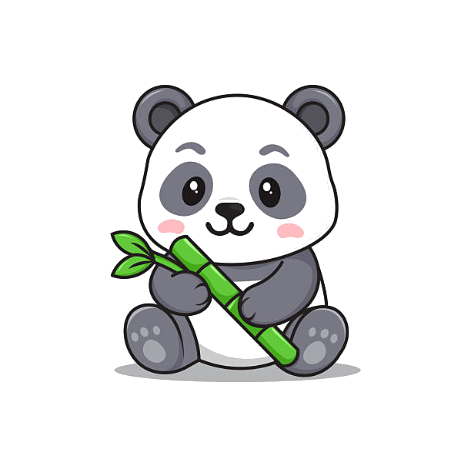
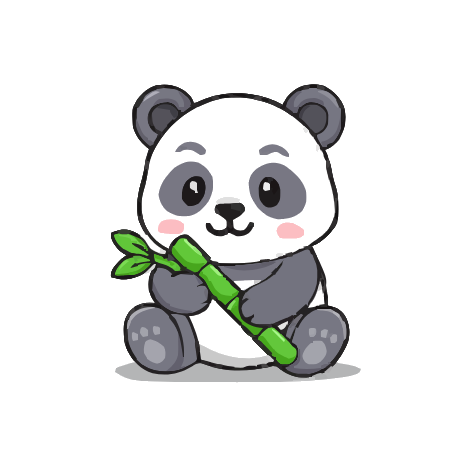
Update start layout and shift to a warm Chinese-inspired theme.
Larger start title above the card, bigger panda, and jade-on-paper palette instead of blue-white.

diff --git a/style.css b/style.css
@@ -1,26 +1,26 @@
-/* ===== Theme tokens ===== */
+/* ===== Theme tokens — warm paper + jade + ink ===== */
 :root {
-  --bg-1: #f4f7fb;
-  --bg-2: #eaf0fb;
-  --card: #ffffff;
-  --ink: #1c2433;
-  --ink-soft: #5a6577;
-  --ink-faint: #8a93a3;
-  --line: #e6eaf1;
+  --bg-1: #f6f0e4;
+  --bg-2: #ebe1cf;
+  --card: #fffdf8;
+  --ink: #2a2318;
+  --ink-soft: #5c5345;
+  --ink-faint: #8a8072;
+  --line: #e3d9c8;
 
-  --accent: #4f7cff;
-  --accent-soft: #eaf0ff;
-  --accent-ink: #2a4bcf;
+  --accent: #3a8f78;
+  --accent-soft: #e4f2ec;
+  --accent-ink: #1f5f4f;
 
-  --good: #1f9d6b;
-  --good-soft: #e7f6ef;
+  --good: #2f8f5f;
+  --good-soft: #e5f4ea;
 
-  --warn: #e08a2b;
+  --warn: #c47a2a;
 
   --radius: 18px;
   --radius-sm: 12px;
-  --shadow: 0 18px 40px -22px rgba(28, 45, 95, 0.35);
-  --shadow-soft: 0 6px 18px -12px rgba(28, 45, 95, 0.3);
+  --shadow: 0 18px 40px -22px rgba(42, 35, 24, 0.22);
+  --shadow-soft: 0 6px 18px -12px rgba(42, 35, 24, 0.18);
 
   --speed: 180ms;
 }
@@ -38,12 +38,10 @@ body {
 body {
   font-family: "Inter", "Noto Sans SC", system-ui, sans-serif;
   color: var(--ink);
-  background: radial-gradient(
-      1200px 600px at 70% -10%,
-      var(--bg-2),
-      transparent 60%
-    ),
-    linear-gradient(180deg, var(--bg-1), #ffffff 80%);
+  background:
+    radial-gradient(900px 500px at 15% 0%, rgba(58, 143, 120, 0.08), transparent 55%),
+    radial-gradient(700px 400px at 85% 10%, rgba(196, 122, 42, 0.06), transparent 50%),
+    linear-gradient(180deg, var(--bg-1), var(--bg-2) 85%);
   -webkit-font-smoothing: antialiased;
   text-rendering: optimizeLegibility;
 }
@@ -71,8 +69,8 @@ body {
 
 .home-btn:hover {
   color: var(--accent-ink);
-  border-color: #c7d3ef;
-  background: #fafbff;
+  border-color: #c8ddd5;
+  background: #f8fbf9;
   transform: translateY(-1px);
 }
 
@@ -127,14 +125,31 @@ body {
 .card--start {
   position: relative;
   overflow: visible;
-  padding-top: 44px;
+  padding-top: 28px;
+}
+
+.start-stack {
+  display: flex;
+  flex-direction: column;
+  align-items: center;
+  gap: 32px;
+  margin-top: -28px;
+}
+
+.start-brand {
+  margin: 0;
+  font-size: 1.75rem;
+  font-weight: 800;
+  letter-spacing: 0.14em;
+  text-transform: uppercase;
+  color: var(--accent-ink);
 }
 
 .start-panda {
   position: absolute;
-  top: -28px;
-  right: -18px;
-  width: 96px;
+  top: -36px;
+  right: -28px;
+  width: 132px;
   height: auto;
   pointer-events: none;
   user-select: none;
@@ -153,15 +168,6 @@ body {
 }
 
 /* ===== Start screen ===== */
-.eyebrow {
-  margin: 0 0 14px;
-  font-size: 0.78rem;
-  font-weight: 600;
-  letter-spacing: 0.14em;
-  text-transform: uppercase;
-  color: var(--accent-ink);
-}
-
 .start-title {
   margin: 0 0 30px;
   font-size: 1.85rem;
@@ -199,8 +205,8 @@ body {
 }
 
 .btn:disabled {
-  background: #c9d2e2;
-  color: #eef2f8;
+  background: #d4ccc0;
+  color: #f5f0e8;
   cursor: not-allowed;
   box-shadow: none;
 }
@@ -280,8 +286,8 @@ body {
 }
 
 .option:hover:not(:disabled) {
-  border-color: #c7d3ef;
-  background: #fafbff;
+  border-color: #b8d4c8;
+  background: #f7fbf9;
 }
 
 .option__marker {
@@ -330,7 +336,7 @@ body {
   padding: 16px 18px;
   border-radius: var(--radius-sm);
   background: var(--good-soft);
-  border: 1px solid #bfe6d2;
+  border: 1px solid #b8dcc8;
   animation: fade-in var(--speed) ease-out;
 }
 
@@ -431,6 +437,9 @@ body {
 @media (max-width: 520px) {
   .card {
     padding: 26px 20px;
+  }
+  .start-brand {
+    font-size: 1.45rem;
   }
   .start-title {
     font-size: 1.55rem;

diff --git a/index.html b/index.html
@@ -32,20 +32,22 @@
     <main class="stage">
       <!-- ===== Start screen ===== -->
       <section id="screen-start" class="screen is-active">
-        <div class="card card--center card--start">
-          <img
-            class="start-panda"
-            src="assets/panda.png"
-            alt=""
-            aria-hidden="true"
-          />
-          <p class="eyebrow">YGF · China Quiz</p>
-          <h1 class="start-title">
-            are u ready to find out how chinese ur brain really is?
-          </h1>
-          <button id="btn-start" class="btn btn--primary" type="button">
-            let's go
-          </button>
+        <div class="start-stack">
+          <p class="start-brand">YGF · China Quiz</p>
+          <div class="card card--center card--start">
+            <img
+              class="start-panda"
+              src="assets/panda.png"
+              alt=""
+              aria-hidden="true"
+            />
+            <h1 class="start-title">
+              are u ready to find out how chinese ur brain really is?
+            </h1>
+            <button id="btn-start" class="btn btn--primary" type="button">
+              let's go
+            </button>
+          </div>
         </div>
       </section>
 